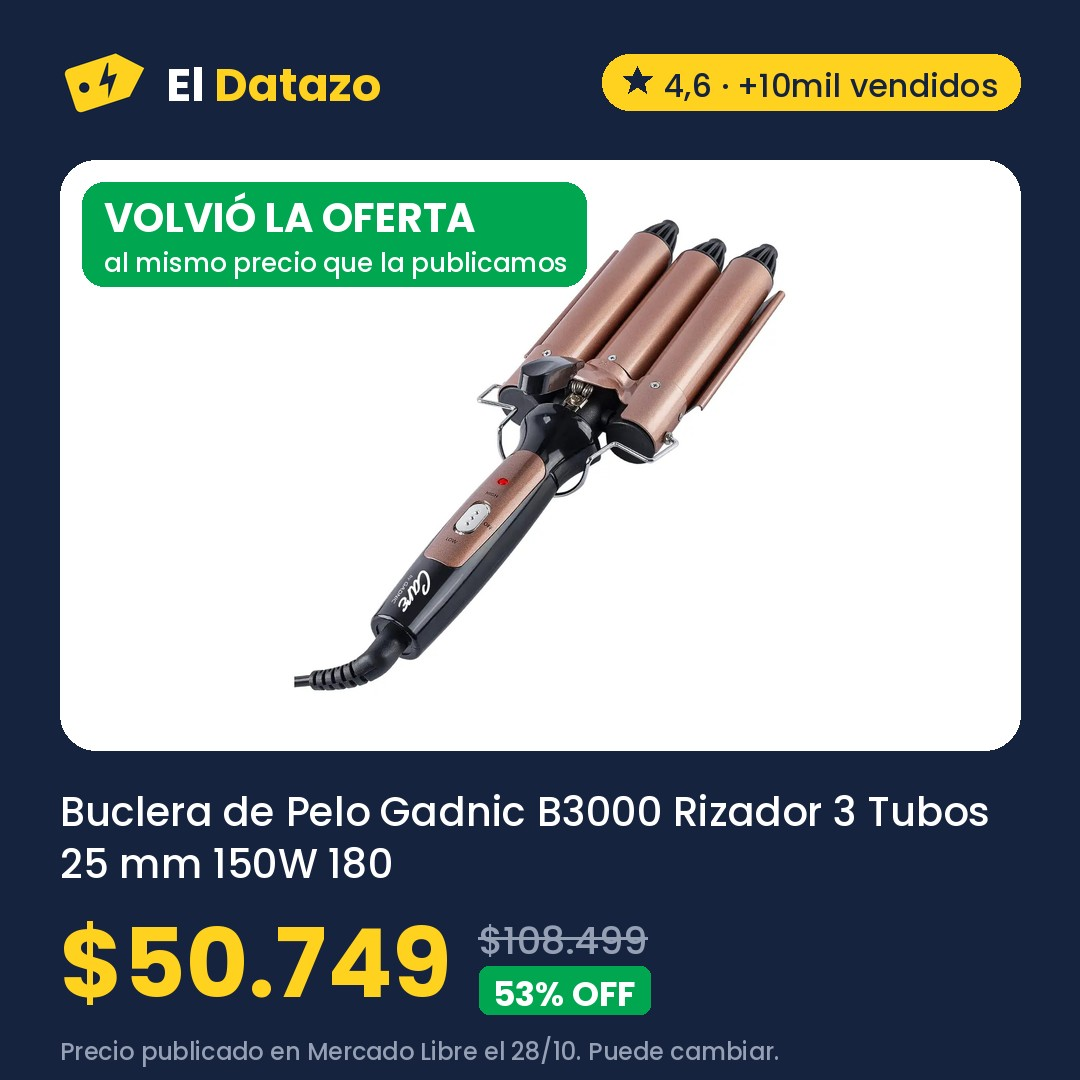
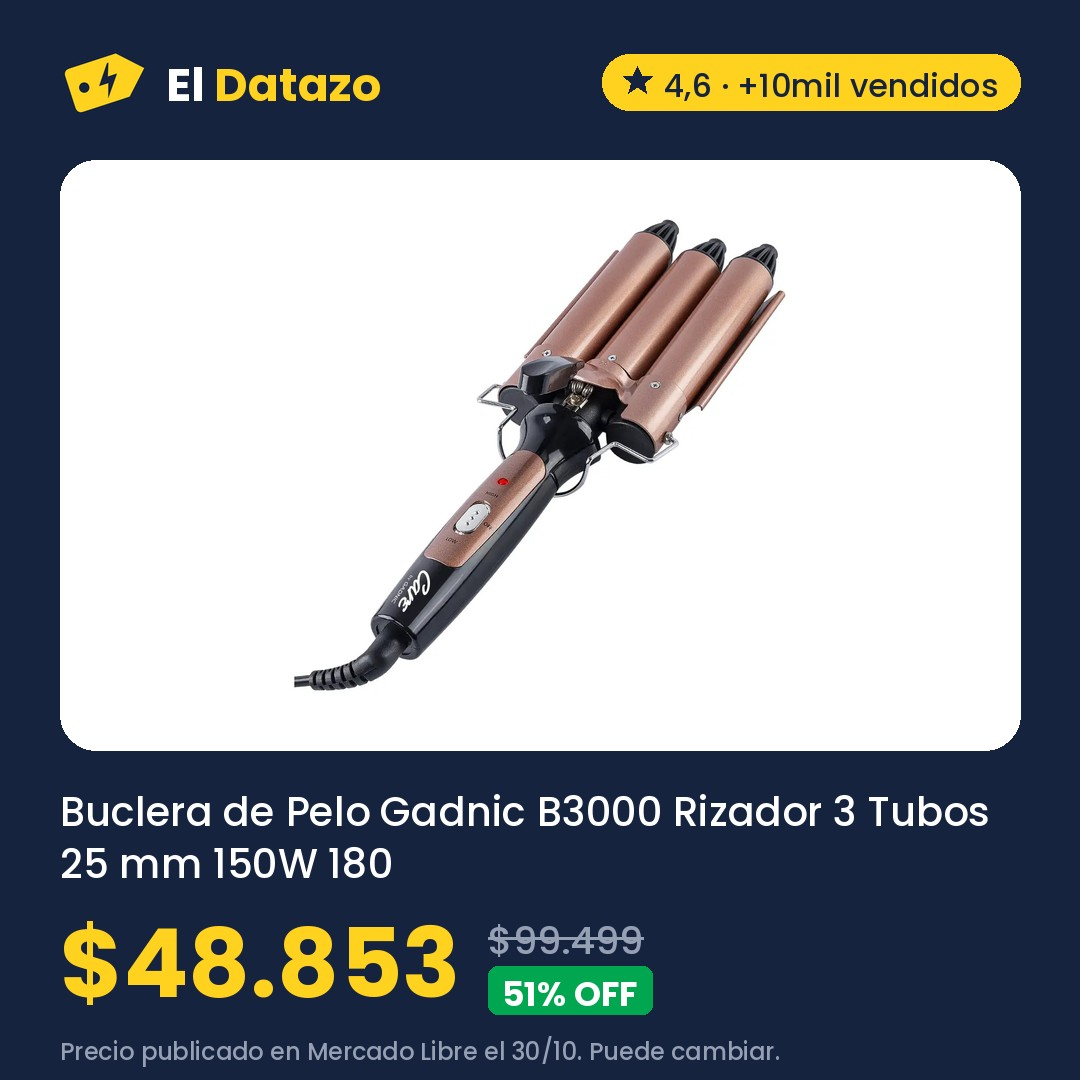
Ofertas 2026-10-30 23:34

Changed region(s): [[0.0611, 0.1528, 0.55, 0.275], [0.1222, 0.8556, 0.6111, 0.9778], [0.6722, 0.9472, 0.7028, 0.9778]]

diff --git a/index.html b/index.html
@@ -285,34 +285,36 @@ padding:3px 9px;border-radius:999px}
         tu precio.</p>
       </section>
       
-  <section class="hero" id="MLA22130330" aria-labelledby="hero-titulo">
-    <div class="hero-foto"><img src="img/MLA22130330.jpg" alt="Buclera de Pelo Gadnic B3000 Rizador 3 Tubos 25 mm 150W 180 210 C" width="1080" height="1080"></div>
+  <section class="hero" id="MLA23521180" aria-labelledby="hero-titulo">
+    <div class="hero-foto"><img src="img/MLA23521180.jpg" alt="Pintura Latex Ingenia X 20 L Interior Exterior Cubritiva - Blanco" width="1080" height="1080"></div>
     <div class="etiqueta">
-      <p class="etiqueta-cabeza">El datazo de hoy <span class="sello">Quedan 5 días</span></p>
-      <h2 id="hero-titulo">Buclera de Pelo Gadnic B3000 Rizador 3 Tubos 25 mm 150W 180 210 C</h2>
-      <p class="hero-precio">$50.749</p>
-      <p class="hero-antes"><s>$108.499</s> <span class="off">53% OFF</span></p>
-      <p class="bajo pastilla"><b>⬇ Volvió</b> · Había terminado y volvió al mismo precio</p>
-      <p class="nota">Precio del 28/10 en Mercado Libre, revisado hoy a las 16:33. Puede cambiar.</p>
-      <a class="boton oscuro" href="https://meli.la/1HyqnAD" rel="sponsored noopener" target="_blank"
-         data-oferta="MLA22130330">Ver oferta en Mercado Libre</a>
-      <a class="compartir" href="https://wa.me/?text=Mir%C3%A1%20este%20datazo%3A%20Buclera%20de%20Pelo%20Gadnic%20B3000%20Rizador%203%20Tubos%2025%20mm%20150W%20180%20210%20C%20a%20%2450.749%20https%3A//eldatazo.com.ar/%23MLA22130330" target="_blank" rel="noopener" data-estilo="texto"><svg viewBox="0 0 24 24" width="16" height="16" aria-hidden="true"><path d="M4 20l1.3-4A8 8 0 1 1 8 18.7L4 20z" fill="none" stroke="currentColor" stroke-width="2" stroke-linejoin="round"/></svg> Compartir por WhatsApp</a>
+      <p class="etiqueta-cabeza">El datazo de hoy <span class="sello ultimo">Último día</span></p>
+      <h2 id="hero-titulo">Pintura Latex Ingenia X 20 L Interior Exterior Cubritiva - Blanco</h2>
+      <p class="hero-precio">$32.999</p>
+      <p class="hero-antes"><s>$69.999</s> <span class="off">53% OFF</span></p>
+      
+      <p class="nota">Precio del 24/10 en Mercado Libre, revisado hoy a las 20:34. Puede cambiar.</p>
+      <a class="boton oscuro" href="https://meli.la/2Gbd1ds" rel="sponsored noopener" target="_blank"
+         data-oferta="MLA23521180">Ver oferta en Mercado Libre</a>
+      <a class="compartir" href="https://wa.me/?text=Mir%C3%A1%20este%20datazo%3A%20Pintura%20Latex%20Ingenia%20X%2020%20L%20Interior%20Exterior%20Cubritiva%20-%20Blanco%20a%20%2432.999%20https%3A//eldatazo.com.ar/%23MLA23521180" target="_blank" rel="noopener" data-estilo="texto"><svg viewBox="0 0 24 24" width="16" height="16" aria-hidden="true"><path d="M4 20l1.3-4A8 8 0 1 1 8 18.7L4 20z" fill="none" stroke="currentColor" stroke-width="2" stroke-linejoin="round"/></svg> Compartir por WhatsApp</a>
     </div>
   </section>
       
   <section class="franja-bajo" aria-labelledby="bajo-titulo">
-    <h2 id="bajo-titulo">⬇ Bajaron de precio <span>14</span></h2>
+    <h2 id="bajo-titulo">⬇ Bajaron de precio <span>15</span></h2>
     <ul class="franja-lista">
         <li><a href="#MLA69121337"><img src="img/MLA69121337.jpg" alt="" loading="lazy">
           <span><b>Figuritas Panini X 25 Sobres World Cup 2026 Mundial 2026</b><span class="ahora">$41.848</span><s>$48.980</s> <span class="bajo">⬇ Bajó</span></span></a></li>
         <li><a href="#MLA19974075"><img src="img/MLA19974075.jpg" alt="" loading="lazy">
           <span><b>Bomba Pluvius Presurizadora 100 W Automática 2 Baños</b><span class="ahora">$62.006</span><s>$66.659</s> <span class="bajo">⬇ Bajó</span></span></a></li>
+        <li><a href="#MLA59797283"><img src="img/MLA59797283.jpg" alt="" loading="lazy">
+          <span><b>Probioticos Perros Aditivo Natural Digestivo Instestinal Alergia Ruffitos</b><span class="ahora">$51.990</span> <span class="bajo">⬇ Volvió</span></span></a></li>
         <li><a href="#MLA19576694"><img src="img/MLA19576694.jpg" alt="" loading="lazy">
           <span><b>Bomba Periferica Elevadora Agua Vasser 1/2 Hp 20mts caudal 30 l/m</b><span class="ahora">$41.159</span> <span class="bajo">⬇ Volvió</span></span></a></li>
         <li><a href="#MLA28052339"><img src="img/MLA28052339.jpg" alt="" loading="lazy">
           <span><b>Pañales Pampers deluxe protection XXG x 54 unidades</b><span class="ahora">$42.008</span> <span class="bajo">⬇ Volvió</span></span></a></li>
         <li><a href="#MLA22130330"><img src="img/MLA22130330.jpg" alt="" loading="lazy">
-          <span><b>Buclera de Pelo Gadnic B3000 Rizador 3 Tubos 25 mm 150W 180 210 C</b><span class="ahora">$50.749</span> <span class="bajo">⬇ Volvió</span></span></a></li>
+          <span><b>Buclera de Pelo Gadnic B3000 Rizador 3 Tubos 25 mm 150W 180 210 C</b><span class="ahora">$48.853</span> <span class="bajo">⬇ Volvió</span></span></a></li>
         <li><a href="#MLA25363194"><img src="img/MLA25363194.jpg" alt="" loading="lazy">
           <span><b>Old Prince Premium gato adulto 7.5 kg</b><span class="ahora">$39.244</span> <span class="bajo">⬇ Volvió</span></span></a></li>
         <li><a href="https://meli.la/2bhn3SU" rel="sponsored noopener" target="_blank" data-oferta="MLA29031346"><img src="https://http2.mlstatic.com/D_Q_NP_930271-MLA99501053204_112025-AB.webp" alt="" loading="lazy" referrerpolicy="no-referrer">
@@ -329,9 +331,6 @@ padding:3px 9px;border-radius:999px}
           <span class="bajo">⬇ Bajó</span></span></a></li>
         <li><a href="https://meli.la/2V53bXq" rel="sponsored noopener" target="_blank" data-oferta="MLA76118504"><img src="https://http2.mlstatic.com/D_Q_NP_750127-MLA114688955266_082026-AB.webp" alt="" loading="lazy" referrerpolicy="no-referrer">
           <span><b>Tensiometro Digital Brazo Bluetooth Presion Arterial Aparato Para Tomar Presion Batería Recargable Usb Medidor Automatico Femmto KF-DT65S</b><span class="ahora">$29.000</span><s>$32.999</s>
-          <span class="bajo">⬇ Bajó</span></span></a></li>
-        <li><a href="https://meli.la/2QCX1Tv" rel="sponsored noopener" target="_blank" data-oferta="MLA41940083"><img src="https://http2.mlstatic.com/D_Q_NP_846244-MLA114862624544_082026-AB.webp" alt="" loading="lazy" referrerpolicy="no-referrer">
-          <span><b>Ventilador Techo 47 Indelplas Con Luz Led Control 3 Aspas Blanco IVT47 30W</b><span class="ahora">$92.636</span><s>$104.999</s>
           <span class="bajo">⬇ Bajó</span></span></a></li>
     </ul>
   </section>
@@ -352,10 +351,28 @@ padding:3px 9px;border-radius:999px}
             <option value="precio">Más baratas</option>
           </select></label>
       </div>
-      <div class="chips" role="group" aria-label="Rubro"><button type="button" data-filtro="" aria-pressed="true">Todo</button><button type="button" data-filtro="MLA1500" aria-pressed="false">Construcción <span>5</span></button><button type="button" data-filtro="MLA5725" aria-pressed="false">Accesorios para Vehículos <span>2</span></button><button type="button" data-filtro="MLA1499" aria-pressed="false">Industrias y Oficinas <span>2</span></button><button type="button" data-filtro="MLA1132" aria-pressed="false">Juegos y Juguetes <span>2</span></button><button type="button" data-filtro="MLA1071" aria-pressed="false">Mascotas <span>2</span></button><button type="button" data-filtro="MLA1512" aria-pressed="false">Agro <span>1</span></button><button type="button" data-filtro="MLA1384" aria-pressed="false">Bebés <span>1</span></button><button type="button" data-filtro="MLA1276" aria-pressed="false">Deportes y Fitness <span>1</span></button><button type="button" data-filtro="MLA407134" aria-pressed="false">Herramientas <span>1</span></button><button type="button" data-filtro="MLA409431" aria-pressed="false">Salud y Equipamiento Médico <span>1</span></button></div>
-      <p class="contador" aria-live="polite"><span data-cuenta>18</span> ofertas</p>
+      <div class="chips" role="group" aria-label="Rubro"><button type="button" data-filtro="" aria-pressed="true">Todo</button><button type="button" data-filtro="MLA1500" aria-pressed="false">Construcción <span>4</span></button><button type="button" data-filtro="MLA1071" aria-pressed="false">Mascotas <span>3</span></button><button type="button" data-filtro="MLA5725" aria-pressed="false">Accesorios para Vehículos <span>2</span></button><button type="button" data-filtro="MLA1499" aria-pressed="false">Industrias y Oficinas <span>2</span></button><button type="button" data-filtro="MLA1132" aria-pressed="false">Juegos y Juguetes <span>2</span></button><button type="button" data-filtro="MLA1512" aria-pressed="false">Agro <span>1</span></button><button type="button" data-filtro="MLA1384" aria-pressed="false">Bebés <span>1</span></button><button type="button" data-filtro="MLA1246" aria-pressed="false">Belleza y Cuidado Personal <span>1</span></button><button type="button" data-filtro="MLA1276" aria-pressed="false">Deportes y Fitness <span>1</span></button><button type="button" data-filtro="MLA407134" aria-pressed="false">Herramientas <span>1</span></button><button type="button" data-filtro="MLA409431" aria-pressed="false">Salud y Equipamiento Médico <span>1</span></button></div>
+      <p class="contador" aria-live="polite"><span data-cuenta>19</span> ofertas</p>
     </div>
     <div class="grilla activas">
+      <article class="tarjeta destacada" id="MLA59797283" data-rubro="MLA1071" data-off="0" data-pub="2026-10-30" data-quedan="7" data-precio="51990" data-bajo="1" data-texto="probioticos perros aditivo natural digestivo instestinal alergia ruffitos">
+        <div class="tarjeta-foto">
+          <img src="img/MLA59797283.jpg" alt="Probioticos Perros Aditivo Natural Digestivo Instestinal Alergia Ruffitos" loading="lazy" width="1080" height="1080">
+        </div>
+        <div class="cuerpo">
+          <div class="fila"><span class="sello baja">⬇ Volvió</span><span class="sello">Quedan 7 días</span><span class="rubro">Mascotas</span></div>
+          <h3>Probioticos Perros Aditivo Natural Digestivo Instestinal Alergia Ruffitos</h3>
+          <p class="precios "><span class="precio">$51.990</span></p>
+          <p class="bajo">Había terminado y volvió al mismo precio</p>
+          <p class="nota">Precio de hoy a las 20:34 en Mercado Libre. Puede cambiar.</p>
+          <div class="acciones">
+            <a class="boton" href="https://meli.la/2MYNaoX" rel="sponsored noopener" target="_blank"
+               data-oferta="MLA59797283">Ver oferta</a>
+            <a class="compartir" href="https://wa.me/?text=Mir%C3%A1%20este%20datazo%3A%20Probioticos%20Perros%20Aditivo%20Natural%20Digestivo%20Instestinal%20Alergia%20Ruffitos%20a%20%2451.990%20https%3A//eldatazo.com.ar/%23MLA59797283" target="_blank" rel="noopener"
+               aria-label="Compartir por WhatsApp" title="Compartir por WhatsApp"><svg viewBox="0 0 24 24" width="16" height="16" aria-hidden="true"><path d="M4 20l1.3-4A8 8 0 1 1 8 18.7L4 20z" fill="none" stroke="currentColor" stroke-width="2" stroke-linejoin="round"/></svg></a>
+          </div>
+        </div>
+      </article>
       <article class="tarjeta destacada" id="MLA69121337" data-rubro="MLA1132" data-off="0" data-pub="2026-10-30" data-quedan="7" data-precio="41848" data-bajo="16" data-texto="figuritas panini x 25 sobres world cup 2026 mundial 2026">
         <div class="tarjeta-foto">
           <img src="img/MLA69121337.jpg" alt="Figuritas Panini X 25 Sobres World Cup 2026 Mundial 2026" loading="lazy" width="1080" height="1080">
@@ -365,7 +382,7 @@ padding:3px 9px;border-radius:999px}
           <h3>Figuritas Panini X 25 Sobres World Cup 2026 Mundial 2026</h3>
           <p class="precios "><span class="precio">$41.848</span></p>
           <p class="bajo">Antes $48.980 el 28/10 · 15% menos</p>
-          <p class="nota">Precio de hoy a las 16:33 en Mercado Libre. Puede cambiar.</p>
+          <p class="nota">Precio de hoy a las 20:34 en Mercado Libre. Puede cambiar.</p>
           <div class="acciones">
             <a class="boton" href="https://meli.la/1qNpAcw" rel="sponsored noopener" target="_blank"
                data-oferta="MLA69121337">Ver oferta</a>
@@ -383,7 +400,7 @@ padding:3px 9px;border-radius:999px}
           <h3>Bomba Periferica Elevadora Agua Vasser 1/2 Hp 20mts caudal 30 l/m</h3>
           <p class="precios "><span class="precio">$41.159</span><s class="antes">$51.449</s><span class="off">20% OFF</span></p>
           <p class="bajo">Había terminado y volvió al mismo precio</p>
-          <p class="nota">Precio de hoy a las 16:33 en Mercado Libre. Puede cambiar.</p>
+          <p class="nota">Precio de hoy a las 20:34 en Mercado Libre. Puede cambiar.</p>
           <div class="acciones">
             <a class="boton" href="https://meli.la/2nztThe" rel="sponsored noopener" target="_blank"
                data-oferta="MLA19576694">Ver oferta</a>
@@ -401,11 +418,29 @@ padding:3px 9px;border-radius:999px}
           <h3>Pañales Pampers deluxe protection XXG x 54 unidades</h3>
           <p class="precios "><span class="precio">$42.008</span><s class="antes">$50.000</s><span class="off">16% OFF</span></p>
           <p class="bajo">Había terminado y volvió al mismo precio</p>
-          <p class="nota">Precio del 29/10 en Mercado Libre, revisado hoy a las 16:33. Puede cambiar.</p>
+          <p class="nota">Precio del 29/10 en Mercado Libre, revisado hoy a las 20:34. Puede cambiar.</p>
           <div class="acciones">
             <a class="boton" href="https://meli.la/2kAwAe6" rel="sponsored noopener" target="_blank"
                data-oferta="MLA28052339">Ver oferta</a>
             <a class="compartir" href="https://wa.me/?text=Mir%C3%A1%20este%20datazo%3A%20Pa%C3%B1ales%20Pampers%20deluxe%20protection%20XXG%20x%2054%20unidades%20a%20%2442.008%20https%3A//eldatazo.com.ar/%23MLA28052339" target="_blank" rel="noopener"
+               aria-label="Compartir por WhatsApp" title="Compartir por WhatsApp"><svg viewBox="0 0 24 24" width="16" height="16" aria-hidden="true"><path d="M4 20l1.3-4A8 8 0 1 1 8 18.7L4 20z" fill="none" stroke="currentColor" stroke-width="2" stroke-linejoin="round"/></svg></a>
+          </div>
+        </div>
+      </article>
+      <article class="tarjeta destacada" id="MLA22130330" data-rubro="MLA1246" data-off="51" data-pub="2026-10-28" data-quedan="5" data-precio="48853" data-bajo="1" data-texto="buclera de pelo gadnic b3000 rizador 3 tubos 25 mm 150w 180 210 c">
+        <div class="tarjeta-foto">
+          <img src="img/MLA22130330.jpg" alt="Buclera de Pelo Gadnic B3000 Rizador 3 Tubos 25 mm 150W 180 210 C" loading="lazy" width="1080" height="1080">
+        </div>
+        <div class="cuerpo">
+          <div class="fila"><span class="sello baja">⬇ Volvió</span><span class="sello">Quedan 5 días</span><span class="rubro">Belleza y Cuidado Personal</span></div>
+          <h3>Buclera de Pelo Gadnic B3000 Rizador 3 Tubos 25 mm 150W 180 210 C</h3>
+          <p class="precios "><span class="precio">$48.853</span><s class="antes">$99.499</s><span class="off">51% OFF</span></p>
+          <p class="bajo">Había terminado y volvió al mismo precio</p>
+          <p class="nota">Precio de hoy a las 20:34 en Mercado Libre. Puede cambiar.</p>
+          <div class="acciones">
+            <a class="boton" href="https://meli.la/1HyqnAD" rel="sponsored noopener" target="_blank"
+               data-oferta="MLA22130330">Ver oferta</a>
+            <a class="compartir" href="https://wa.me/?text=Mir%C3%A1%20este%20datazo%3A%20Buclera%20de%20Pelo%20Gadnic%20B3000%20Rizador%203%20Tubos%2025%20mm%20150W%20180%20210%20C%20a%20%2448.853%20https%3A//eldatazo.com.ar/%23MLA22130330" target="_blank" rel="noopener"
                aria-label="Compartir por WhatsApp" title="Compartir por WhatsApp"><svg viewBox="0 0 24 24" width="16" height="16" aria-hidden="true"><path d="M4 20l1.3-4A8 8 0 1 1 8 18.7L4 20z" fill="none" stroke="currentColor" stroke-width="2" stroke-linejoin="round"/></svg></a>
           </div>
         </div>
@@ -419,7 +454,7 @@ padding:3px 9px;border-radius:999px}
           <h3>Old Prince Premium gato adulto 7.5 kg</h3>
           <p class="precios "><span class="precio">$39.244</span><s class="antes">$42.320</s><span class="off">7% OFF</span></p>
           <p class="bajo">Había terminado y volvió al mismo precio</p>
-          <p class="nota">Precio de hoy a las 16:33 en Mercado Libre. Puede cambiar.</p>
+          <p class="nota">Precio de hoy a las 20:34 en Mercado Libre. Puede cambiar.</p>
           <div class="acciones">
             <a class="boton" href="https://meli.la/2zmmmFA" rel="sponsored noopener" target="_blank"
                data-oferta="MLA25363194">Ver oferta</a>
@@ -437,7 +472,7 @@ padding:3px 9px;border-radius:999px}
           <h3>Colchón Inflable Doble Klimber + Inflador + 2 Almohadas</h3>
           <p class="precios "><span class="precio">$45.777</span><s class="antes">$69.499</s><span class="off">34% OFF</span></p>
           
-          <p class="nota">Precio del 26/10 en Mercado Libre, revisado hoy a las 16:33. Puede cambiar.</p>
+          <p class="nota">Precio del 26/10 en Mercado Libre, revisado hoy a las 20:34. Puede cambiar.</p>
           <div class="acciones">
             <a class="boton" href="https://meli.la/19eMhmv" rel="sponsored noopener" target="_blank"
                data-oferta="MLA22764635">Ver oferta</a>
@@ -455,7 +490,7 @@ padding:3px 9px;border-radius:999px}
           <h3>Rotuladora Portátil Niimbot Etiquetadora Manual Impresora Color Blanco D110</h3>
           <p class="precios "><span class="precio">$41.040</span><s class="antes">$58.900</s><span class="off">30% OFF</span></p>
           
-          <p class="nota">Precio del 26/10 en Mercado Libre, revisado hoy a las 16:33. Puede cambiar.</p>
+          <p class="nota">Precio del 26/10 en Mercado Libre, revisado hoy a las 20:34. Puede cambiar.</p>
           <div class="acciones">
             <a class="boton" href="https://meli.la/1czSFp6" rel="sponsored noopener" target="_blank"
                data-oferta="MLA45260672">Ver oferta</a>
@@ -473,7 +508,7 @@ padding:3px 9px;border-radius:999px}
           <h3>Bomba Pluvius Presurizadora 100 W Automática 2 Baños</h3>
           <p class="precios "><span class="precio">$62.006</span><s class="antes">$81.899</s><span class="off">24% OFF</span></p>
           <p class="bajo">Antes $66.659 el 24/10 · 7% menos</p>
-          <p class="nota">Precio del 27/10 en Mercado Libre, revisado hoy a las 16:33. Puede cambiar.</p>
+          <p class="nota">Precio del 27/10 en Mercado Libre, revisado hoy a las 20:34. Puede cambiar.</p>
           <div class="acciones">
             <a class="boton" href="https://meli.la/2a5DkY2" rel="sponsored noopener" target="_blank"
                data-oferta="MLA19974075">Ver oferta</a>
@@ -491,29 +526,11 @@ padding:3px 9px;border-radius:999px}
           <h3>Equipo Pistola Pintar Eléctrica Latex 450w TOTAL Acabado Profesional sin Esfuerzo</h3>
           <p class="precios "><span class="precio">$56.340</span><s class="antes">$105.990</s><span class="off">47% OFF</span></p>
           
-          <p class="nota">Precio del 24/10 en Mercado Libre, revisado hoy a las 16:33. Puede cambiar.</p>
+          <p class="nota">Precio del 24/10 en Mercado Libre, revisado hoy a las 20:34. Puede cambiar.</p>
           <div class="acciones">
             <a class="boton" href="https://meli.la/2TeggF7" rel="sponsored noopener" target="_blank"
                data-oferta="MLA22620660">Ver oferta</a>
             <a class="compartir" href="https://wa.me/?text=Mir%C3%A1%20este%20datazo%3A%20Equipo%20Pistola%20Pintar%20El%C3%A9ctrica%20Latex%20450w%20TOTAL%20Acabado%20Profesional%20sin%20Esfuerzo%20a%20%2456.340%20https%3A//eldatazo.com.ar/%23MLA22620660" target="_blank" rel="noopener"
-               aria-label="Compartir por WhatsApp" title="Compartir por WhatsApp"><svg viewBox="0 0 24 24" width="16" height="16" aria-hidden="true"><path d="M4 20l1.3-4A8 8 0 1 1 8 18.7L4 20z" fill="none" stroke="currentColor" stroke-width="2" stroke-linejoin="round"/></svg></a>
-          </div>
-        </div>
-      </article>
-      <article class="tarjeta" id="MLA23521180" data-rubro="MLA1500" data-off="53" data-pub="2026-10-24" data-quedan="1" data-precio="32999" data-bajo="0" data-texto="pintura latex ingenia x 20 l interior exterior cubritiva - blanco">
-        <div class="tarjeta-foto">
-          <img src="img/MLA23521180.jpg" alt="Pintura Latex Ingenia X 20 L Interior Exterior Cubritiva - Blanco" loading="lazy" width="1080" height="1080">
-        </div>
-        <div class="cuerpo">
-          <div class="fila"><span class="sello ultimo">Último día</span><span class="rubro">Construcción</span></div>
-          <h3>Pintura Latex Ingenia X 20 L Interior Exterior Cubritiva - Blanco</h3>
-          <p class="precios "><span class="precio">$32.999</span><s class="antes">$69.999</s><span class="off">53% OFF</span></p>
-          
-          <p class="nota">Precio del 24/10 en Mercado Libre, revisado hoy a las 16:33. Puede cambiar.</p>
-          <div class="acciones">
-            <a class="boton" href="https://meli.la/2Gbd1ds" rel="sponsored noopener" target="_blank"
-               data-oferta="MLA23521180">Ver oferta</a>
-            <a class="compartir" href="https://wa.me/?text=Mir%C3%A1%20este%20datazo%3A%20Pintura%20Latex%20Ingenia%20X%2020%20L%20Interior%20Exterior%20Cubritiva%20-%20Blanco%20a%20%2432.999%20https%3A//eldatazo.com.ar/%23MLA23521180" target="_blank" rel="noopener"
                aria-label="Compartir por WhatsApp" title="Compartir por WhatsApp"><svg viewBox="0 0 24 24" width="16" height="16" aria-hidden="true"><path d="M4 20l1.3-4A8 8 0 1 1 8 18.7L4 20z" fill="none" stroke="currentColor" stroke-width="2" stroke-linejoin="round"/></svg></a>
           </div>
         </div>
@@ -527,7 +544,7 @@ padding:3px 9px;border-radius:999px}
           <h3>Masajeador Cervical Eléctrico Portatil Inalambrico Batería Recargable Usb Femmto Relajación Cuello Espalda Lumbar</h3>
           <p class="precios "><span class="precio">$70.699</span><s class="antes">$100.000</s><span class="off">29% OFF</span></p>
           
-          <p class="nota">Precio del 22/10 en Mercado Libre, revisado hoy a las 16:33. Puede cambiar.</p>
+          <p class="nota">Precio del 22/10 en Mercado Libre, revisado hoy a las 20:34. Puede cambiar.</p>
           <div class="acciones">
             <a class="boton" href="https://meli.la/2DfwhAa" rel="sponsored noopener" target="_blank"
                data-oferta="MLA24127896">Ver oferta</a>
@@ -545,7 +562,7 @@ padding:3px 9px;border-radius:999px}
           <h3>Taladro Atornillador Inalámbrico Branx Bateria 20v Litio Color Accesorios Maletin HyperBolt20</h3>
           <p class="precios "><span class="precio">$58.999</span><s class="antes">$120.000</s><span class="off">51% OFF</span></p>
           
-          <p class="nota">Precio del 24/10 en Mercado Libre, revisado hoy a las 16:33. Puede cambiar.</p>
+          <p class="nota">Precio del 24/10 en Mercado Libre, revisado hoy a las 20:34. Puede cambiar.</p>
           <div class="acciones">
             <a class="boton" href="https://meli.la/2xk9W87" rel="sponsored noopener" target="_blank"
                data-oferta="MLA24983473">Ver oferta</a>
@@ -563,7 +580,7 @@ padding:3px 9px;border-radius:999px}
           <h3>Bomba Presurizadora Elevadora 2 Baños Presion Kommberg 120w KB-EP120</h3>
           <p class="precios "><span class="precio">$60.021</span><s class="antes">$79.890</s><span class="off">25% OFF</span></p>
           
-          <p class="nota">Precio del 24/10 en Mercado Libre, revisado hoy a las 16:33. Puede cambiar.</p>
+          <p class="nota">Precio del 24/10 en Mercado Libre, revisado hoy a las 20:34. Puede cambiar.</p>
           <div class="acciones">
             <a class="boton" href="https://meli.la/2eMw9XD" rel="sponsored noopener" target="_blank"
                data-oferta="MLA28254149">Ver oferta</a>
@@ -581,7 +598,7 @@ padding:3px 9px;border-radius:999px}
           <h3>Máquina De Cortar Pelo Para Perros Gadnic CP170 Silenciosa 2000 mAh 4 Peines Acero Inoxidable Autonomía 3,5Hr Carga Rápida</h3>
           <p class="precios "><span class="precio">$68.999</span><s class="antes">$118.749</s><span class="off">42% OFF</span></p>
           
-          <p class="nota">Precio del 24/10 en Mercado Libre, revisado hoy a las 16:33. Puede cambiar.</p>
+          <p class="nota">Precio del 24/10 en Mercado Libre, revisado hoy a las 20:34. Puede cambiar.</p>
           <div class="acciones">
             <a class="boton" href="https://meli.la/1eArodH" rel="sponsored noopener" target="_blank"
                data-oferta="MLA28329206">Ver oferta</a>
@@ -599,7 +616,7 @@ padding:3px 9px;border-radius:999px}
           <h3>Compresor De Aire Portátil Gadnic Inflador Neumáticos 50W Presión 150 PSI Caudal 17 L/min Pantalla Dual LCD Corte Automático Linterna LED Accesorios Para Auto Moto Bicicleta Pelotas</h3>
           <p class="precios "><span class="precio">$57.449</span><s class="antes">$105.599</s><span class="off">46% OFF</span></p>
           
-          <p class="nota">Precio del 24/10 en Mercado Libre, revisado hoy a las 16:33. Puede cambiar.</p>
+          <p class="nota">Precio del 24/10 en Mercado Libre, revisado hoy a las 20:34. Puede cambiar.</p>
           <div class="acciones">
             <a class="boton" href="https://meli.la/2ck1cFk" rel="sponsored noopener" target="_blank"
                data-oferta="MLA43472281">Ver oferta</a>
@@ -617,7 +634,7 @@ padding:3px 9px;border-radius:999px}
           <h3>Plastificadora Laminadora A4 Profesional Frio Calor 230 Mm</h3>
           <p class="precios "><span class="precio">$51.465</span><s class="antes">$79.999</s><span class="off">36% OFF</span></p>
           
-          <p class="nota">Precio del 24/10 en Mercado Libre, revisado hoy a las 16:33. Puede cambiar.</p>
+          <p class="nota">Precio del 24/10 en Mercado Libre, revisado hoy a las 20:34. Puede cambiar.</p>
           <div class="acciones">
             <a class="boton" href="https://meli.la/14bVQFh" rel="sponsored noopener" target="_blank"
                data-oferta="MLA43829530">Ver oferta</a>
@@ -635,7 +652,7 @@ padding:3px 9px;border-radius:999px}
           <h3>Cable Tipo Taller 2x2.5 Mm 50mts Cubierta Negro</h3>
           <p class="precios "><span class="precio">$47.219</span></p>
           
-          <p class="nota">Precio del 28/10 en Mercado Libre, revisado hoy a las 16:33. Puede cambiar.</p>
+          <p class="nota">Precio del 28/10 en Mercado Libre, revisado hoy a las 20:34. Puede cambiar.</p>
           <div class="acciones">
             <a class="boton" href="https://meli.la/1aC3rjr" rel="sponsored noopener" target="_blank"
                data-oferta="MLA50107405">Ver oferta</a>
@@ -653,7 +670,7 @@ padding:3px 9px;border-radius:999px}
           <h3>Bloques Magnéticos Para Armar 100 Piezas Construcción Tiles 100</h3>
           <p class="precios "><span class="precio">$63.832</span><s class="antes">$83.990</s><span class="off">24% OFF</span></p>
           
-          <p class="nota">Precio del 24/10 en Mercado Libre, revisado hoy a las 16:33. Puede cambiar.</p>
+          <p class="nota">Precio del 24/10 en Mercado Libre, revisado hoy a las 20:34. Puede cambiar.</p>
           <div class="acciones">
             <a class="boton" href="https://meli.la/2Hc8YtJ" rel="sponsored noopener" target="_blank"
                data-oferta="MLA63335049">Ver oferta</a>
@@ -671,7 +688,7 @@ padding:3px 9px;border-radius:999px}
           <h3>Juego Cubiertas Moto 110 2.50-17+2.75-14 + Camaras</h3>
           <p class="precios "><span class="precio">$60.776</span><s class="antes">$82.983</s><span class="off">27% OFF</span></p>
           
-          <p class="nota">Precio del 24/10 en Mercado Libre, revisado hoy a las 16:33. Puede cambiar.</p>
+          <p class="nota">Precio del 24/10 en Mercado Libre, revisado hoy a las 20:34. Puede cambiar.</p>
           <div class="acciones">
             <a class="boton" href="https://meli.la/1rzdJj3" rel="sponsored noopener" target="_blank"
                data-oferta="MLA63532450">Ver oferta</a>
@@ -1093,7 +1110,7 @@ padding:3px 9px;border-radius:999px}
     </div>
   </section>
     <div class="envoltura">
-      <details class="terminadas"><summary>Terminadas · ofertas que ya no están vigentes (20)</summary>
+      <details class="terminadas"><summary>Terminadas · ofertas que ya no están vigentes (19)</summary>
 <div class="grilla">
       <article class="tarjeta terminada" id="MLA32162099">
         <div class="tarjeta-foto">
@@ -1148,17 +1165,6 @@ padding:3px 9px;border-radius:999px}
           <p class="nota">Terminó el 29/10. El link sigue abierto: mirá el precio de hoy.</p>
           <a class="boton suave" href="https://meli.la/1Y9GX65" rel="sponsored noopener" target="_blank"
              data-oferta="MLA43803009">Ver precio de hoy</a>
-        </div>
-      </article>
-      <article class="tarjeta terminada" id="MLA59797283">
-        <div class="tarjeta-foto">
-          <img src="img/MLA59797283_terminada.jpg" alt="Probioticos Perros Aditivo Natural Digestivo Instestinal Alergia Ruffitos" loading="lazy" width="1080" height="1080">
-        </div>
-        <div class="cuerpo">
-          <h3>Probioticos Perros Aditivo Natural Digestivo Instestinal Alergia Ruffitos</h3>
-          <p class="nota">Terminó el 29/10. El link sigue abierto: mirá el precio de hoy.</p>
-          <a class="boton suave" href="https://meli.la/2MYNaoX" rel="sponsored noopener" target="_blank"
-             data-oferta="MLA59797283">Ver precio de hoy</a>
         </div>
       </article>
       <article class="tarjeta terminada" id="MLA7890744">
@@ -1323,7 +1329,7 @@ padding:3px 9px;border-radius:999px}
       <nav class="redes" aria-label="Redes de El Datazo"><a class="red" href="https://www.instagram.com/eldatazo.arg/" target="_blank" rel="noopener"><svg viewBox="0 0 24 24" width="18" height="18" aria-hidden="true"><rect x="3" y="3" width="18" height="18" rx="5" fill="none" stroke="currentColor" stroke-width="2"/><circle cx="12" cy="12" r="4" fill="none" stroke="currentColor" stroke-width="2"/><circle cx="17.5" cy="6.5" r="1.3" fill="currentColor"/></svg> Instagram</a><a class="red" href="https://www.facebook.com/profile.php?id=61595441168911" target="_blank" rel="noopener"><svg viewBox="0 0 24 24" width="18" height="18" aria-hidden="true"><path d="M14 8h3V4h-3a4 4 0 0 0-4 4v2H7v4h3v8h4v-8h3l1-4h-4V8z" fill="currentColor"/></svg> Facebook</a><a class="red" href="https://t.me/eldatazo_ofertas" target="_blank" rel="noopener"><svg viewBox="0 0 24 24" width="18" height="18" aria-hidden="true"><path d="M21 4 3 11l5 2 2 6 3-4 5 4 3-15zM9 13l9-6-7 8" fill="none" stroke="currentColor" stroke-width="1.8" stroke-linejoin="round"/></svg> Telegram</a></nav>
       <p>Los links son de afiliado de Mercado Libre: si comprás, El Datazo puede recibir una comisión, sin que cambie
       tu precio. Los precios son los publicados en Mercado Libre el día indicado y pueden cambiar.</p>
-      <p>Actualizado el 30/10/2026 16:33 (hora argentina) · <a href="privacidad/">Privacidad</a></p>
+      <p>Actualizado el 30/10/2026 20:34 (hora argentina) · <a href="privacidad/">Privacidad</a></p>
     </div>
   </footer>
   
